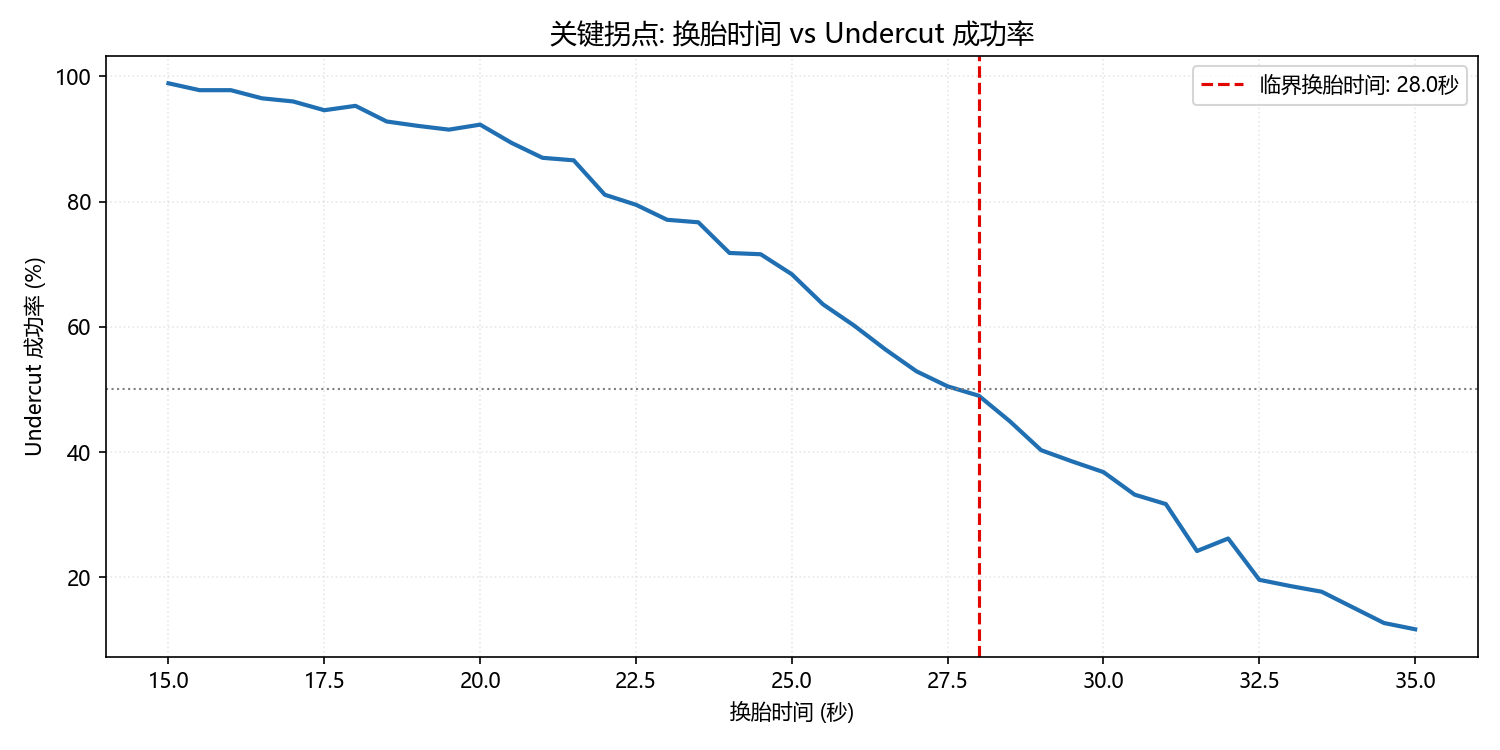
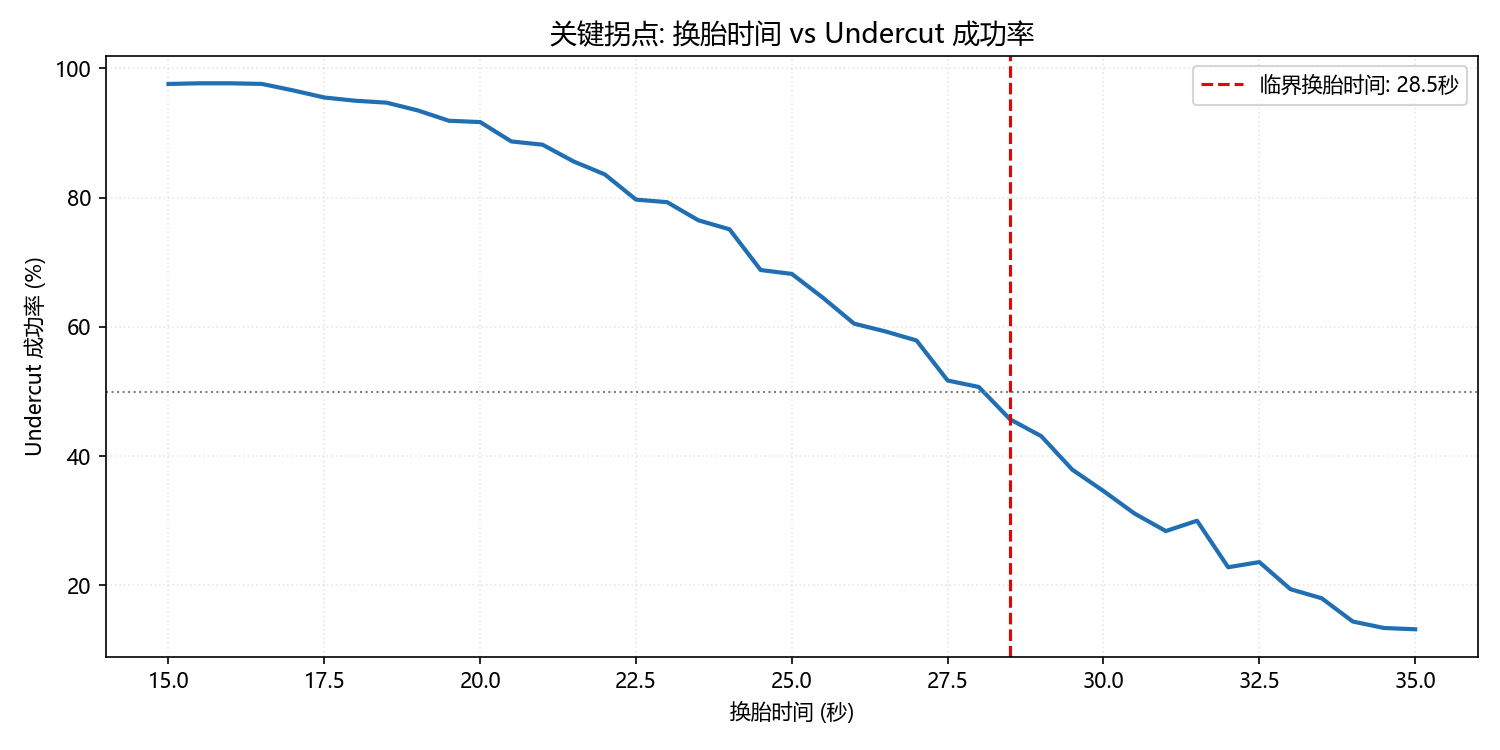
fix: Stackelberg 固定随机种子 + 文档步数勘误
- solve_stackelberg: 新增 SEED=20261020 并在 main 中播种(np.random 全局流),
  11/12/13 连跑两次结果逐位一致;此前每次抖动 ±0.7pp,论文表格与 README 对不上
- 任务清单/README: run_all 主链路步数 10 → 9(另 2 步可选),补充确定性说明

diff --git a/脚本/solve_stackelberg.py b/脚本/solve_stackelberg.py
@@ -54,6 +54,7 @@ PIT_LOSS_VSC = core.PIT_LOSS_VSC             # VSC 下进站损失
 COMPOUNDS = core.COMPOUNDS
 COMPOUND_OFFSET = core.COMPOUND_OFFSET
 N_SIM = 10000                                # 蒙特卡洛模拟次数
+SEED = 20261020                              # 全局随机种子(np.random 流), 保证 11/12/13 可复现
 
 # 全场拟合参数(07_拟合参数表.csv,含物理合理性截断)
 PERF_PARAMS = core.load_pooled_params()
@@ -626,6 +627,10 @@ def plot_critical_point(critical_pit, out_path, grid=None, rates=None):
 
 # ----------------------------------------------------------------- 主程序
 def main():
+    # 固定全局随机种子: 各分支 MC 用的是 np.random 全局流, 不播种会让同一份参数
+    # 每次跑出 ±0.7pp 的抖动, 论文表格与 README 数字就对不上。收益矩阵内部另有
+    # 独立的 default_rng(seed), 两者互不影响。
+    np.random.seed(SEED)
     print("=" * 55)
     print(" 赛中Stackelberg博弈决策引擎")
     print("=" * 55)

diff --git a/任务清单.md b/任务清单.md
@@ -151,9 +151,10 @@ P(t) = 100 - α × (t - t_flat)^β          [t_flat, ∞)     衰减下滑
       --list/--keep-going` + `日志\run_all_<时间戳>.log`);`tests\`(unittest,30 项不变量:
       DP 目标值 == 累计曲线末值、闭区间圈数、`max_stops`/`min_stops`、清洗"只标记不删行"、
       Web/离线常数一致);Web"数据总览"接入 `19`/`20`
-- [x] **整链复算**: `run_all.py` 主链路 10 步全部退出码 0;σ = 0.7357 s,
-      MC 均值 54.3%,轮胎参数 C5 11.92 / C4 3.56 / C3 2.20 %/100 圈
-      (C4 的 95% CI 上界 7.45%)
+- [x] **整链复算**: `run_all.py` 主链路 **9 步**(+2 步可选:联网抓数 / 单圈图)全部退出码 0;
+      σ = 0.7357 s,MC 均值 54.3%,轮胎参数 C5 11.92 / C4 3.56 / C3 2.20 %/100 圈
+      (C4 的 95% CI 上界 7.45%);`solve_stackelberg.py` 补上固定随机种子
+      (`SEED = 20261020`)后,11/12/13 连跑两次结果完全一致
 
 ### ⑤ HTML交互系统 ✅ 已完成(2026-09-29,2026-10-01 扩展)
 

diff --git a/README.md b/README.md
@@ -120,7 +120,7 @@ python -m pip install -r requirements.txt
 ### 4.1 一键复现全部图表(推荐)
 
 ```powershell
-python 脚本\run_all.py                 # 主链路: 拟合 → DP → Stackelberg → 5 项验证
+python 脚本\run_all.py                 # 主链路 9 步: 拟合 → DP → Stackelberg → 5 项验证
 python 脚本\run_all.py --list          # 只看步骤表
 python 脚本\run_all.py --only dp,stackelberg
 python 脚本\run_all.py --from sensitivity
